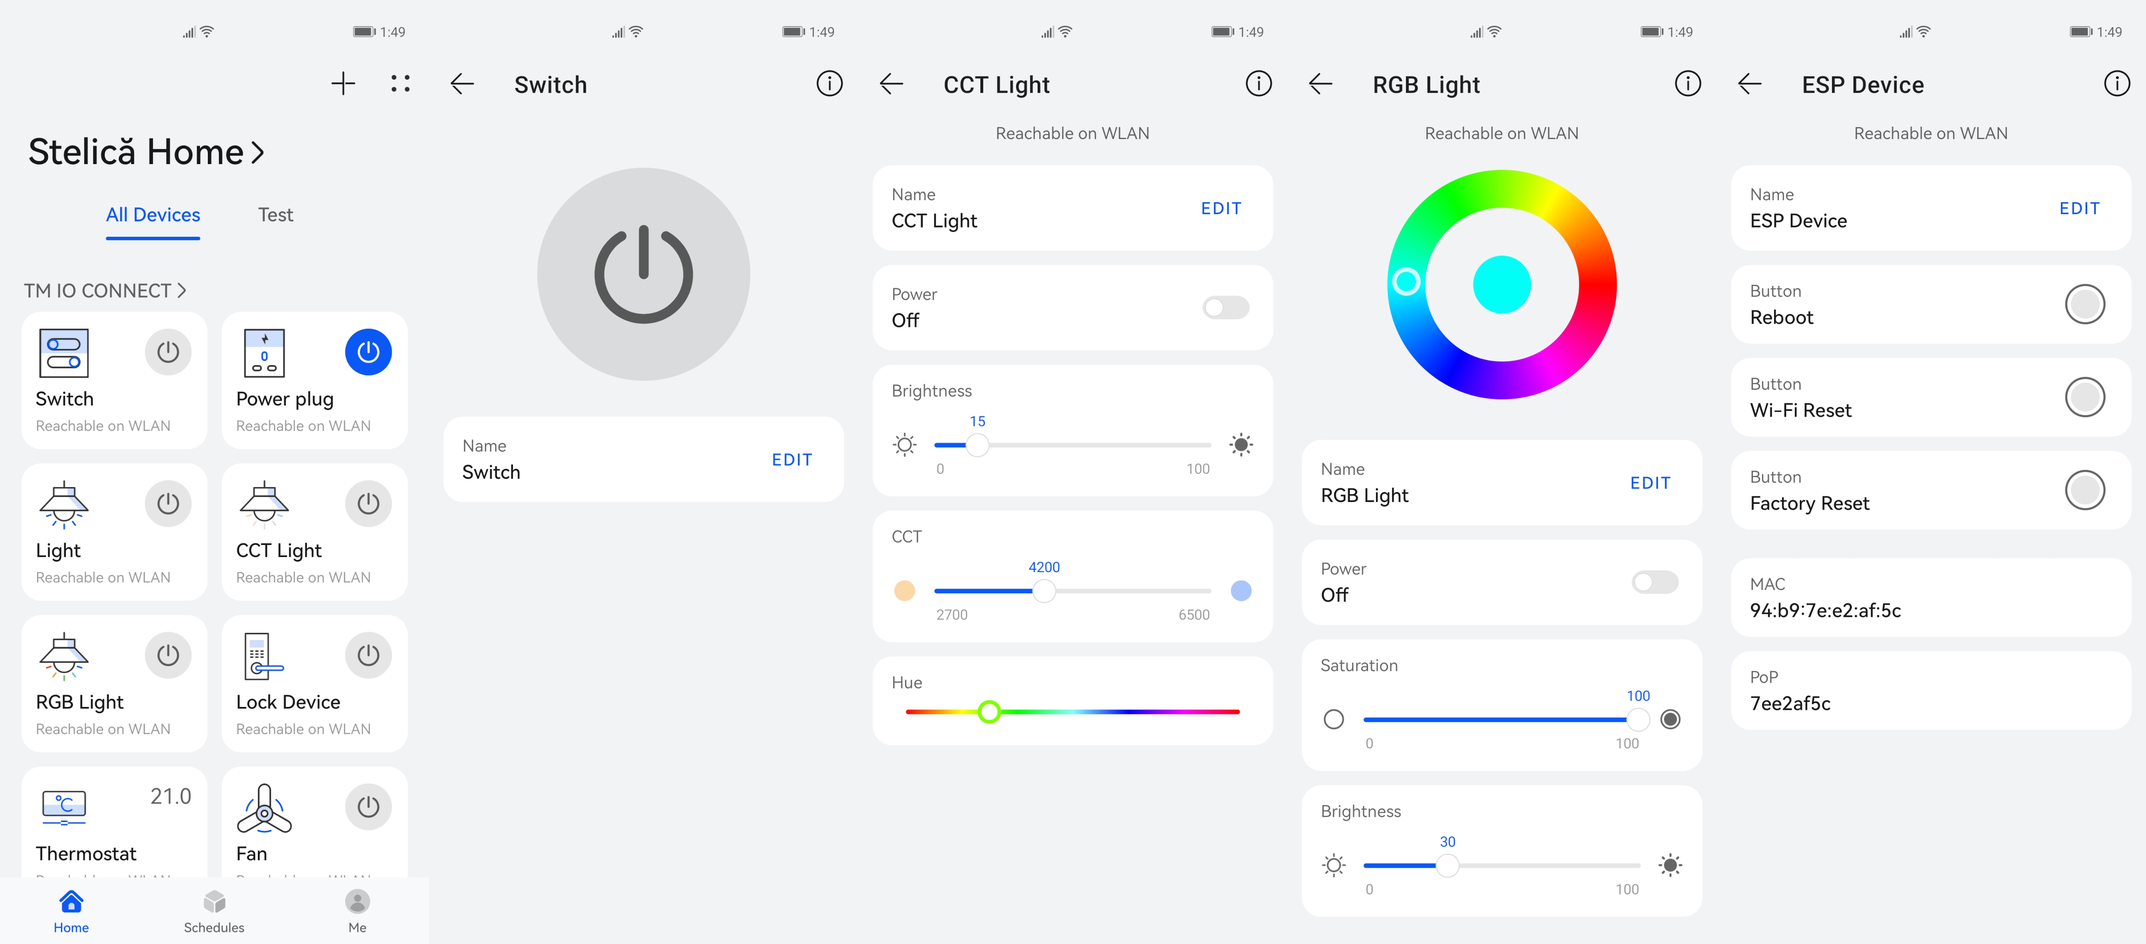
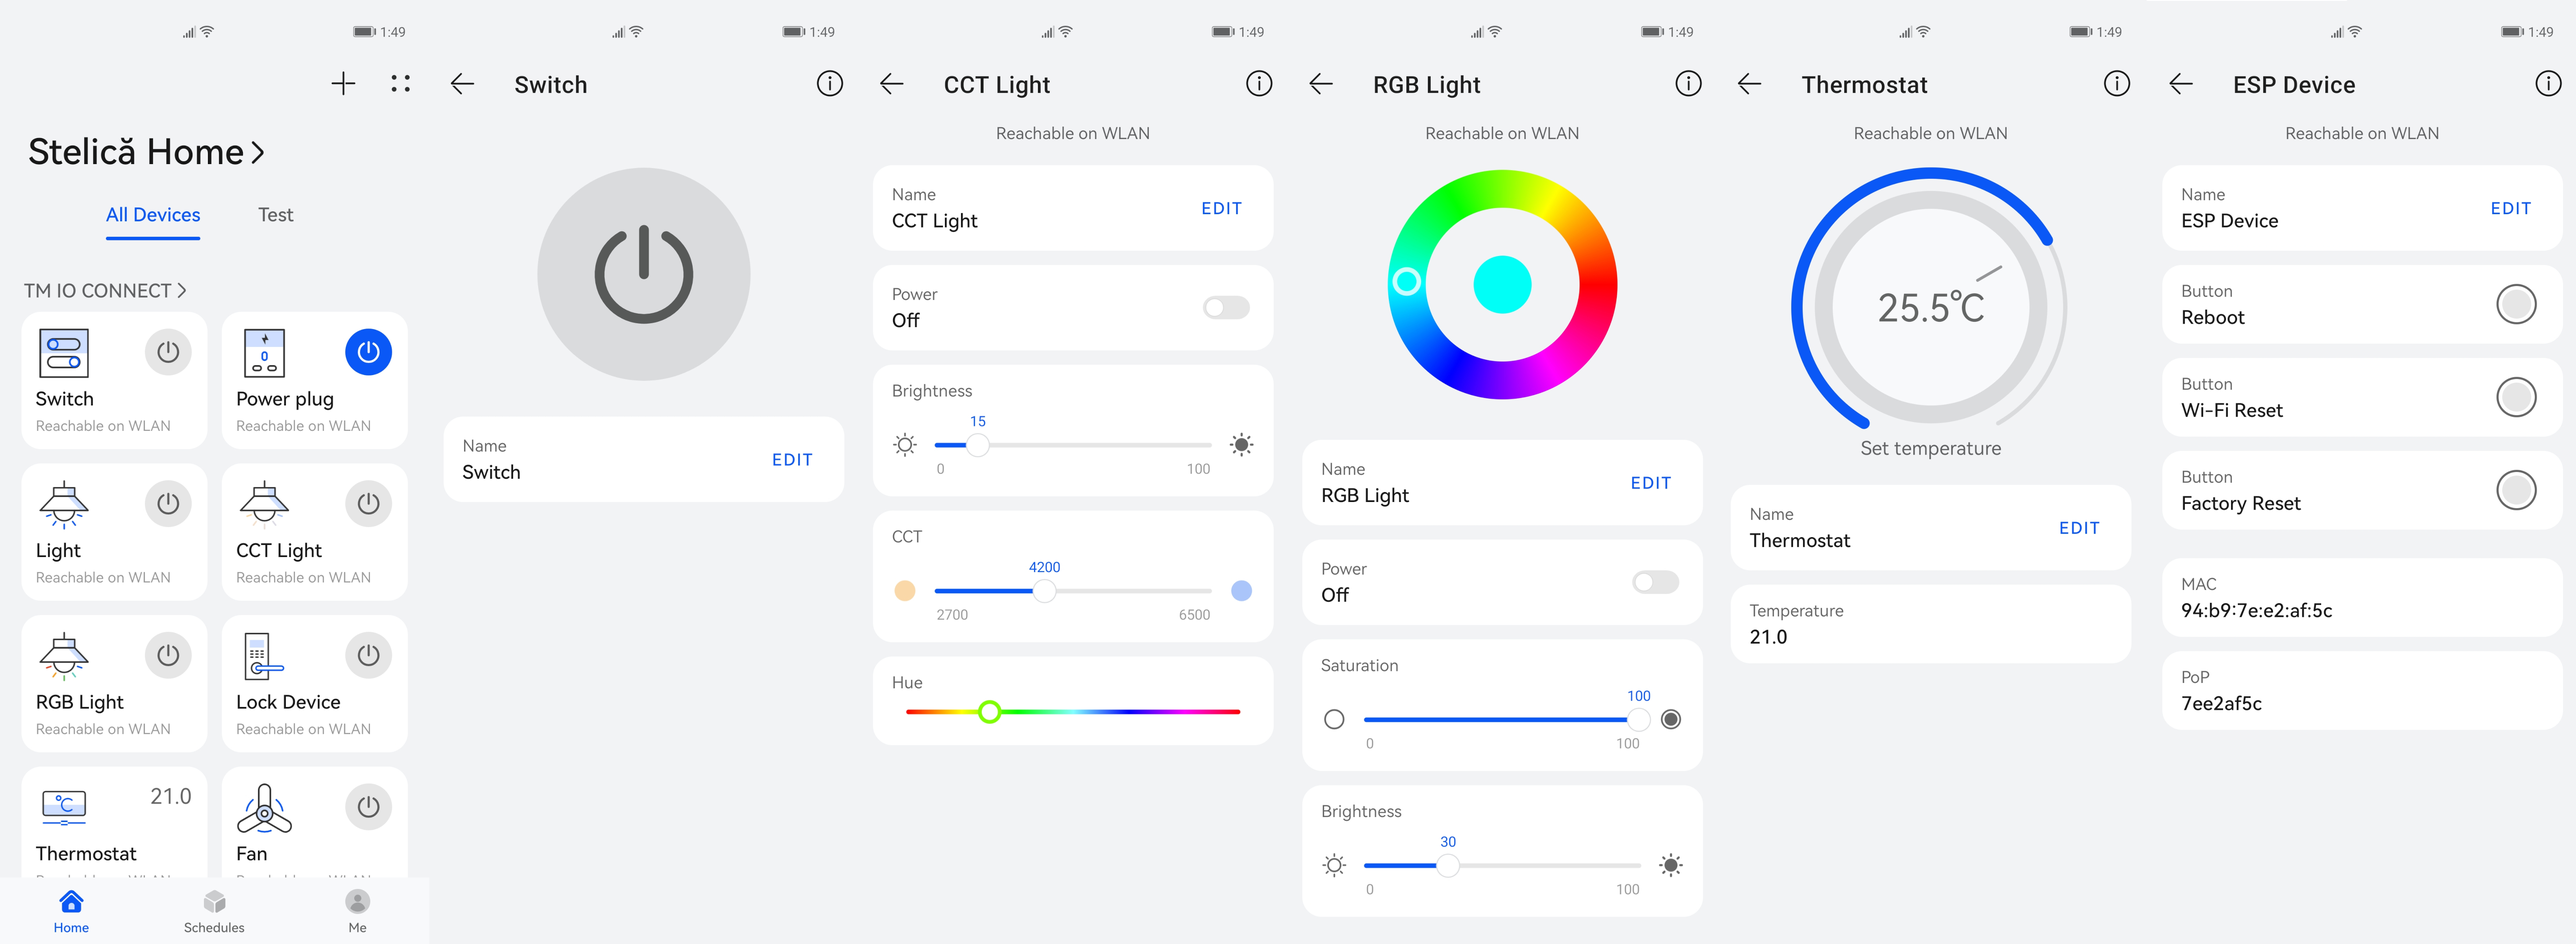
Add support for KnobButton param UI type.
IO Connect (min. version v1.1.7) is required for this new param UI type.

diff --git a/main/app_main.c b/main/app_main.c
@@ -361,6 +361,11 @@ static void app_devices_init(esp_rmaker_node_t *node)
     esp_rmaker_node_add_device(node, lock_device);
 	
 	thermostat_device = ioc_thermostat_device_create("Thermostat", NULL, 21);
+	esp_rmaker_param_t *term_float = esp_rmaker_param_create(IOC_DEF_SET_TEMPERATURE_NAME, IOC_PARAM_TEMPERATURE,
+            esp_rmaker_float(25.5), PROP_FLAG_READ | PROP_FLAG_WRITE);
+	esp_rmaker_param_add_ui_type(term_float, IOC_UI_TYPE_KNOB_BTN);
+	esp_rmaker_param_add_bounds(term_float, esp_rmaker_float(15), esp_rmaker_float(30), esp_rmaker_float(1));
+	esp_rmaker_device_add_param(thermostat_device, term_float);
     esp_rmaker_node_add_device(node, thermostat_device);
 	
 	fan_device = ioc_fan_device_create("Fan", NULL, false);

diff --git a/components/ioc_rainmaker/include/ioc_standard_params.h b/components/ioc_rainmaker/include/ioc_standard_params.h
@@ -31,6 +31,7 @@ extern "C"
 #define IOC_DEF_DIRECTION_NAME		"Direction"
 #define IOC_DEF_SPEED_NAME			"Speed"
 #define IOC_DEF_TEMPERATURE_NAME	"Temperature"
+#define IOC_DEF_SET_TEMPERATURE_NAME	"Set temperature"
 #define IOC_DEF_HUMIDITY_NAME		"Humidity"
 #define IOC_DEF_LUMINOSITY_NAME		"Luminosity"
 #define IOC_DEF_REBOOT_NAME			"Reboot"

diff --git a/components/ioc_rainmaker/include/ioc_standard_types.h b/components/ioc_rainmaker/include/ioc_standard_types.h
@@ -21,6 +21,7 @@ extern "C"
 #define IOC_UI_TYPE_TEXT			"esp.ui.text"
 #define IOC_UI_TYPE_HIDDEN			"esp.ui.hidden"
 #define IOC_UI_TYPE_TRIGGER			"esp.ui.trigger"
+#define IOC_UI_TYPE_KNOB_BTN			"esp.ui.knob-btn"
 
 /********** STANDARD DEVICE TYPES **********/
 
